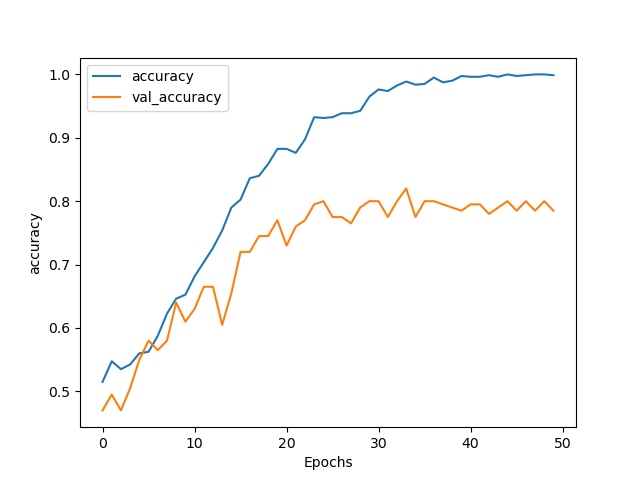
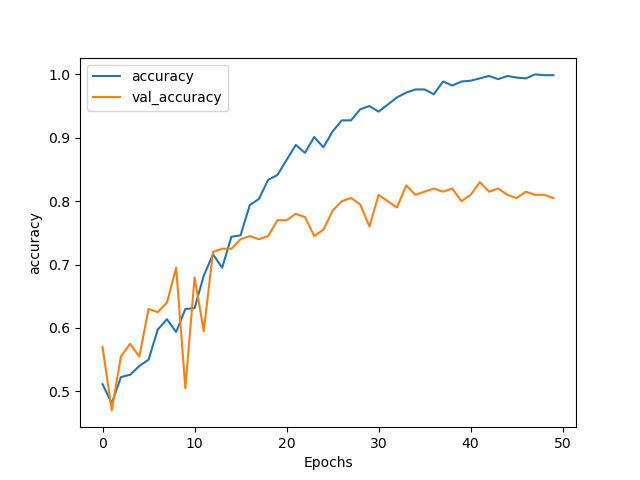
update attention

Changed region(s): [[0.1562, 0.1562, 0.875, 0.875]]

diff --git a/sentiment_analysis.py b/sentiment_analysis.py
@@ -199,7 +199,7 @@ def method_3_Attention(df):
     Attention
     """
     vocab_size = 1000
-    max_length = 40
+    max_length = 50
     x_train, y_train, x_val, y_val = preprocessing(df, vocab_size, max_length)
 
     embed_dim = 40  # Embedding size for each token
